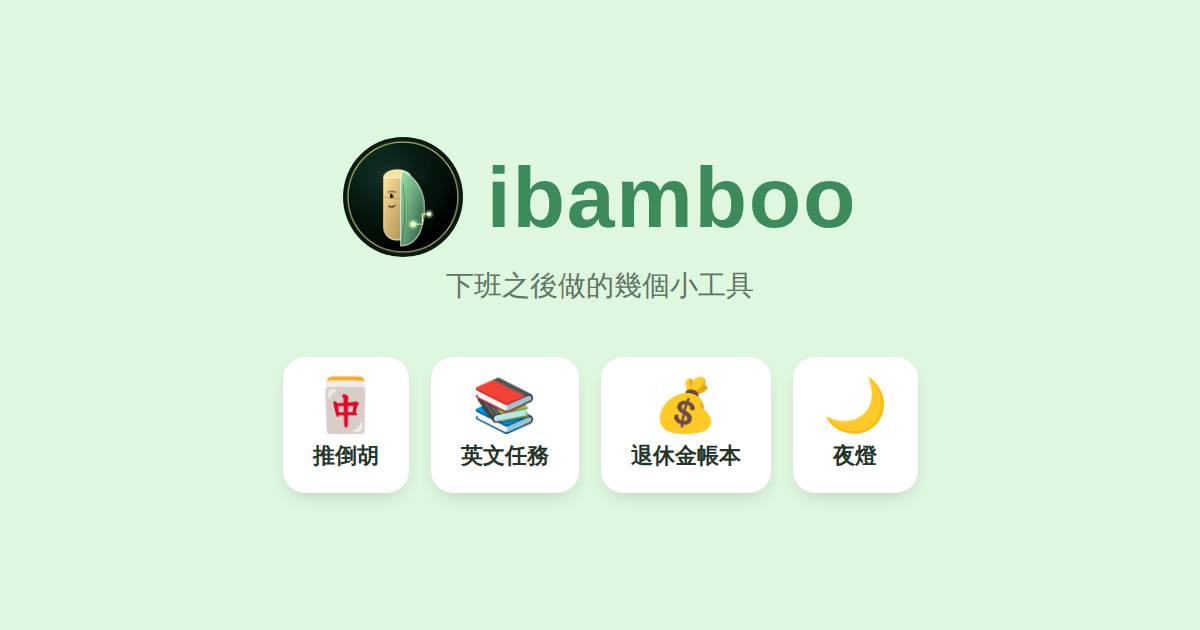
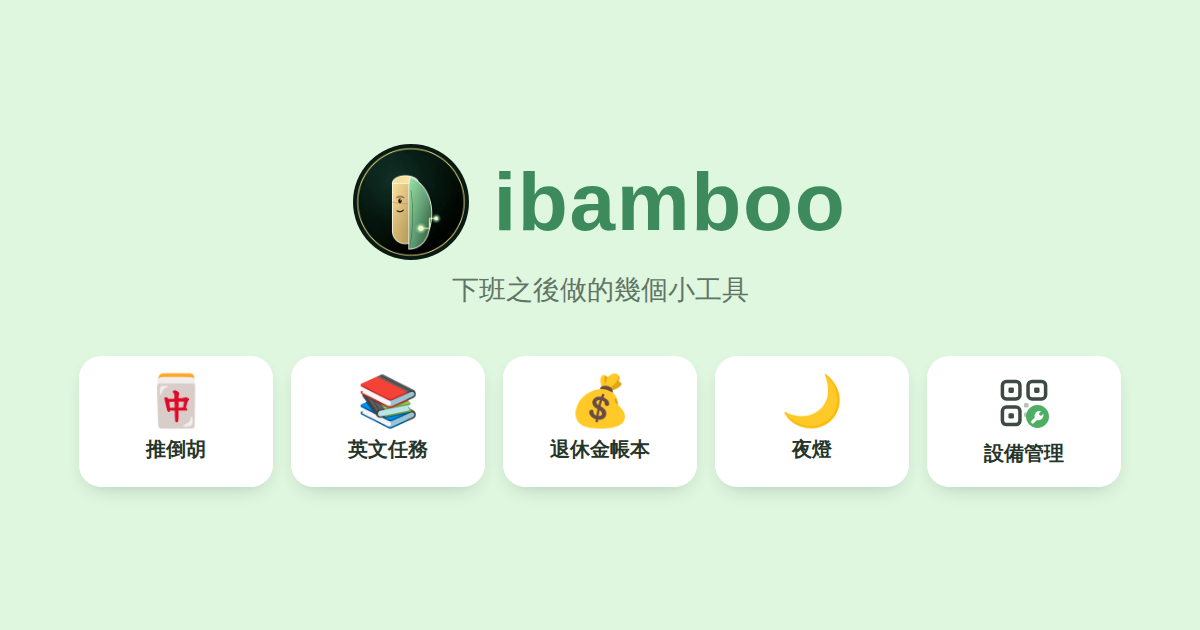
Add files via upload

Changed region(s): [[0.0617, 0.5429, 0.9558, 0.7841], [0.2775, 0.2111, 0.7092, 0.4222], [0.37, 0.4222, 0.6475, 0.4825]]

diff --git a/index.html b/index.html
@@ -4,8 +4,8 @@
 <head>
 <meta charset="utf-8">
 <meta name="viewport" content="width=device-width,initial-scale=1,viewport-fit=cover">
-<title>ibamboo｜推倒胡・英文任務・退休金帳本・夜燈</title>
-<meta name="description" content="ibamboo 做的幾個網頁小工具：推倒胡麻將、英文任務、退休金帳本、夜燈。">
+<title>ibamboo｜企業設備管理系統・推倒胡・英文任務・退休金帳本・夜燈</title>
+<meta name="description" content="ibamboo 用 AI 做的網頁工具與系統：企業設備管理系統（掃碼叫修）、推倒胡麻將、英文任務、退休金帳本、夜燈。">
 <meta name="author" content="ibamboo">
 <meta name="robots" content="index,follow,max-image-preview:large">
 <link rel="canonical" href="https://ibamboo.boll090292.workers.dev/">
@@ -17,14 +17,14 @@
 <meta property="og:site_name" content="ibamboo">
 <meta property="og:locale" content="zh_TW">
 <meta property="og:url" content="https://ibamboo.boll090292.workers.dev/">
-<meta property="og:title" content="ibamboo｜推倒胡・英文任務・退休金帳本・夜燈">
-<meta property="og:description" content="ibamboo 做的幾個網頁小工具。">
+<meta property="og:title" content="ibamboo｜企業設備管理系統・推倒胡・英文任務・退休金帳本・夜燈">
+<meta property="og:description" content="ibamboo 用 AI 做的網頁工具與系統。">
 <meta property="og:image" content="https://ibamboo.boll090292.workers.dev/og.png">
 <meta property="og:image:width" content="1200">
 <meta property="og:image:height" content="630">
 <meta name="twitter:card" content="summary_large_image">
-<meta name="twitter:title" content="ibamboo｜推倒胡・英文任務・退休金帳本・夜燈">
-<meta name="twitter:description" content="ibamboo 做的幾個網頁小工具。">
+<meta name="twitter:title" content="ibamboo｜企業設備管理系統・推倒胡・英文任務・退休金帳本・夜燈">
+<meta name="twitter:description" content="ibamboo 用 AI 做的網頁工具與系統。">
 <meta name="twitter:image" content="https://ibamboo.boll090292.workers.dev/og.png">
 
 <link rel="icon" href="icon-192.png">
@@ -86,7 +86,7 @@ h1,h2,p{margin:0}
   100%{transform:translate3d(-2vw,112vh,0) rotate(360deg)}
 }
 
-.hero,.g,.foot{position:relative;z-index:1}
+.hero,.sec,.foot{position:relative;z-index:1}
 .hero{background:var(--hero);text-align:center;padding:56px 20px 40px}
 .hero h1,.hero p,.install{animation:rise .7s cubic-bezier(.2,.9,.3,1.2) both}
 .hero p{animation-delay:.1s}
@@ -104,11 +104,18 @@ h1,h2,p{margin:0}
 .hero h1{font-size:clamp(34px,8vw,46px);font-weight:900;color:var(--green-d);letter-spacing:.02em}
 .hero p{margin-top:10px;color:var(--soft);font-size:clamp(15px,3.6vw,17px)}
 
-.g{
-  max-width:960px;margin:0 auto;
-  display:grid;grid-template-columns:repeat(auto-fit,minmax(260px,1fr));
-  gap:20px;padding:28px 20px 8px;
+.sec{max-width:960px;margin:0 auto;padding:0 20px}
+.sechd{
+  display:flex;align-items:center;gap:14px;margin:26px 0 0;
+  font-size:12.5px;font-weight:700;letter-spacing:.16em;color:var(--faint);
 }
+.sechd::after{content:"";flex:1;height:1px;background:var(--line)}
+.g{
+  display:grid;grid-template-columns:repeat(auto-fit,minmax(340px,1fr));
+  gap:20px;padding:16px 0 8px;
+}
+.g--one{grid-template-columns:1fr}
+.c--pro{background:linear-gradient(140deg,var(--hero) 0%,var(--card) 78%);border-color:rgba(88,166,107,.45)}
 /* 卡片浮動 */
 .float{animation:rise .7s cubic-bezier(.2,.9,.3,1.2) both, drift 6s ease-in-out infinite}
 .float:nth-child(1){animation-delay:.05s,.7s}
@@ -130,7 +137,10 @@ h1,h2,p{margin:0}
 .c p{transition:color .25s}
 .c h2{font-size:22px;font-weight:900;display:flex;align-items:center;gap:10px;flex-wrap:wrap}
 .c h2 .e{font-size:26px;line-height:1}
-.lock{font-size:11px;font-weight:700;padding:2px 10px;border-radius:99px;background:var(--bg);color:var(--faint);border:1px solid var(--line)}
+.lock,.mon,.pay{font-size:11px;font-weight:700;padding:2px 10px;border-radius:99px;background:var(--bg);color:var(--faint);border:1px solid var(--line);white-space:nowrap}
+.mon{color:var(--green-d);border-color:rgba(88,166,107,.35)}
+.pay{font-size:11px;font-weight:700;padding:2px 10px;border-radius:99px;white-space:nowrap;
+  background:rgba(224,143,38,.12);color:#C07A1E;border:1px solid rgba(224,143,38,.35)}
 .c p{margin-top:8px;color:var(--soft);font-size:15px}
 .b{
   position:relative;overflow:hidden;
@@ -173,7 +183,7 @@ h1,h2,p{margin:0}
 <header class="hero">
   <h1>
[1 lines of base64/hex data omitted]
-  <p>下班之後做的幾個小工具。</p>
+  <p>作品集</p>
   <button class="install" id="install" type="button">📲 安裝到手機</button>
   <p class="hint" id="hint">在 Safari 點下方的「分享」<br>再選「加入主畫面」就裝好了。</p>
 </header>
@@ -181,37 +191,61 @@ h1,h2,p{margin:0}
   <path d="M0 0h1440v18c-180 30-360 42-540 30S180 12 0 34z" fill="currentColor"/>
 </svg>
 
-<main class="g">
+<main>
 
+  <section class="sec">
+    <p class="sechd">服務</p>
+    <div class="g g--one">
+  <div class="float"><a class="c c--pro" href="https://majestic-rugelach-adc8a9.netlify.app/" rel="noopener">
+      <h2><svg class="ico" viewBox="0 0 40 40" aria-hidden="true">
+        <rect x="4" y="4" width="13" height="13" rx="3" fill="none" stroke="#3C4A41" stroke-width="2.6"/>
+        <rect x="8.5" y="8.5" width="4" height="4" rx="1" fill="#3C4A41"/>
+        <rect x="23" y="4" width="13" height="13" rx="3" fill="none" stroke="#3C4A41" stroke-width="2.6"/>
+        <rect x="27.5" y="8.5" width="4" height="4" rx="1" fill="#3C4A41"/>
+        <rect x="4" y="23" width="13" height="13" rx="3" fill="none" stroke="#3C4A41" stroke-width="2.6"/>
+        <rect x="8.5" y="27.5" width="4" height="4" rx="1" fill="#3C4A41"/>
+        <rect x="20" y="20" width="3.4" height="3.4" rx="1" fill="#B9C4BC"/>
+        <rect x="20" y="27" width="3.4" height="3.4" rx="1" fill="#B9C4BC"/>
+        <circle cx="30" cy="30" r="8.5" fill="#4CAF63"/>
+        <path d="M32.6 26.2a3.6 3.6 0 0 0-4.6 4.6l-2.4 2.4a1.2 1.2 0 0 0 1.7 1.7l2.4-2.4a3.6 3.6 0 0 0 4.6-4.6l-1.8 1.8-1.6-1.6z" fill="#fff"/>
+      </svg>企業設備管理系統 <span class="mon">2026.08</span> <span class="pay">需收費</span></h2>
+      <p>掃設備上的 QR 碼就能叫修，工單自動建立，保養紀錄不漏單。</p>
+      <span class="b">看介紹</span>
+    </a></div>
+    </div>
+  </section>
+
+  <section class="sec">
+    <p class="sechd">下班做的小工具</p>
+    <div class="g">
   <div class="float"><a class="c" href="https://ibamboo-mahjong.boll090292.workers.dev" rel="noopener">
-    <h2><svg class="ico" viewBox="0 0 40 40" aria-hidden="true"><g transform="rotate(-8 15 20)"><rect x="4" y="7" width="17" height="25" rx="4.5" fill="#FBF7EA" stroke="#DCD3BC" stroke-width="1.6"/><text x="12.5" y="24" text-anchor="middle" font-size="12.5" font-weight="900" fill="#3D8B5C" font-family="inherit">發</text></g><g transform="rotate(6 26 19)"><rect x="18" y="6" width="18" height="26" rx="4.5" fill="#FFFDF6" stroke="#DCD3BC" stroke-width="1.6"/><text x="27" y="23.5" text-anchor="middle" font-size="13" font-weight="900" fill="#D6473E" font-family="inherit">中</text></g></svg>推倒胡</h2>
-    <p>台灣十六張麻將，開房間跟家人打，或跟 AI 對手打幾圈。</p>
-    <span class="b">開始玩</span>
-  </a></div>
-
+      <h2><svg class="ico" viewBox="0 0 40 40" aria-hidden="true"><g transform="rotate(-8 15 20)"><rect x="4" y="7" width="17" height="25" rx="4.5" fill="#FBF7EA" stroke="#DCD3BC" stroke-width="1.6"/><text x="12.5" y="24" text-anchor="middle" font-size="12.5" font-weight="900" fill="#3D8B5C" font-family="inherit">發</text></g><g transform="rotate(6 26 19)"><rect x="18" y="6" width="18" height="26" rx="4.5" fill="#FFFDF6" stroke="#DCD3BC" stroke-width="1.6"/><text x="27" y="23.5" text-anchor="middle" font-size="13" font-weight="900" fill="#D6473E" font-family="inherit">中</text></g></svg>推倒胡 <span class="mon">2026.07</span></h2>
+      <p>台灣十六張麻將，開房間跟家人打，或跟 AI 對手打幾圈。</p>
+      <span class="b">開始玩</span>
+    </a></div>
   <div class="float"><a class="c" href="https://english-quest.boll090292.workers.dev" rel="noopener">
-    <h2><svg class="ico" viewBox="0 0 40 40" aria-hidden="true">
-      <path d="M4 28c5-2.5 10-2.5 16 1 6-3.5 11-3.5 16-1v4c-5-2.5-10-2.5-16 1-6-3.5-11-3.5-16-1z" fill="#3E7FB8"/>
-      <path d="M5 12c5-2.5 10-2 14 1.4v15.2c-4-3.4-9-3.9-14-1.4z" fill="#F4FAFE" stroke="#8FC3E6" stroke-width="1.3" stroke-linejoin="round"/>
-      <path d="M35 12c-5-2.5-10-2-14 1.4v15.2c4-3.4 9-3.9 14-1.4z" fill="#FFFFFF" stroke="#8FC3E6" stroke-width="1.3" stroke-linejoin="round"/>
-      <path d="M8.5 17.5c3-1 6-1 8 .4M8.5 21.5c3-1 6-1 8 .4M23.5 17.9c2-1.4 5-1.4 8-.4M23.5 21.9c2-1.4 5-1.4 8-.4" stroke="#9CCBE9" stroke-width="1.3" stroke-linecap="round" fill="none"/>
-      <path d="M30 3.5l1.5 3.2 3.5.5-2.5 2.4.6 3.4L30 11.4l-3.1 1.6.6-3.4L25 7.2l3.5-.5z" fill="#FFC155" stroke="#E8A62F" stroke-width="1"/>
-    </svg>英文任務</h2>
-    <p>闖關任務、單字小蜜蜂，一邊玩遊戲一邊背單字。</p>
-    <span class="b">開始學</span>
-  </a></div>
-
+      <h2><svg class="ico" viewBox="0 0 40 40" aria-hidden="true">
+        <path d="M4 28c5-2.5 10-2.5 16 1 6-3.5 11-3.5 16-1v4c-5-2.5-10-2.5-16 1-6-3.5-11-3.5-16-1z" fill="#3E7FB8"/>
+        <path d="M5 12c5-2.5 10-2 14 1.4v15.2c-4-3.4-9-3.9-14-1.4z" fill="#F4FAFE" stroke="#8FC3E6" stroke-width="1.3" stroke-linejoin="round"/>
+        <path d="M35 12c-5-2.5-10-2-14 1.4v15.2c4-3.4 9-3.9 14-1.4z" fill="#FFFFFF" stroke="#8FC3E6" stroke-width="1.3" stroke-linejoin="round"/>
+        <path d="M8.5 17.5c3-1 6-1 8 .4M8.5 21.5c3-1 6-1 8 .4M23.5 17.9c2-1.4 5-1.4 8-.4M23.5 21.9c2-1.4 5-1.4 8-.4" stroke="#9CCBE9" stroke-width="1.3" stroke-linecap="round" fill="none"/>
+        <path d="M30 3.5l1.5 3.2 3.5.5-2.5 2.4.6 3.4L30 11.4l-3.1 1.6.6-3.4L25 7.2l3.5-.5z" fill="#FFC155" stroke="#E8A62F" stroke-width="1"/>
+      </svg>英文任務 <span class="mon">2026.07</span></h2>
+      <p>闖關任務、單字小蜜蜂，一邊玩遊戲一邊背單字。</p>
+      <span class="b">開始學</span>
+    </a></div>
   <div class="float"><a class="c" href="https://sparkling-pine-a903.boll090292.workers.dev/" rel="noopener">
-    <h2><svg class="ico" viewBox="0 0 40 40" aria-hidden="true"><path d="M8 18h4l2.6-4 2 2.6z" fill="#F0A93E"/><rect x="11" y="27" width="4.5" height="6" rx="2.2" fill="#E89B2E"/><rect x="24" y="27" width="4.5" height="6" rx="2.2" fill="#E89B2E"/><ellipse cx="20" cy="22" rx="13" ry="10" fill="#FFC155"/><ellipse cx="31" cy="23" rx="4.4" ry="3.8" fill="#F0A93E"/><circle cx="32.6" cy="21.8" r="1.1" fill="#8A5A12"/><circle cx="29.6" cy="21.8" r="1.1" fill="#8A5A12"/><circle cx="25" cy="19.6" r="1.5" fill="#4A3210"/><rect x="15" y="14.8" width="9" height="2.2" rx="1.1" fill="#E08F26"/><circle cx="21" cy="8.6" r="4.4" fill="#FFE08A"/><text x="21" y="11.4" text-anchor="middle" font-size="6" font-weight="900" fill="#B8801E" font-family="inherit">$</text></svg>退休金帳本 <span class="lock">需密碼</span></h2>
-    <p>勞保加勞退，算算看退休後每個月能領多少。</p>
-    <span class="b">立即試算</span>
-  </a></div>
-
+      <h2><svg class="ico" viewBox="0 0 40 40" aria-hidden="true"><path d="M8 18h4l2.6-4 2 2.6z" fill="#F0A93E"/><rect x="11" y="27" width="4.5" height="6" rx="2.2" fill="#E89B2E"/><rect x="24" y="27" width="4.5" height="6" rx="2.2" fill="#E89B2E"/><ellipse cx="20" cy="22" rx="13" ry="10" fill="#FFC155"/><ellipse cx="31" cy="23" rx="4.4" ry="3.8" fill="#F0A93E"/><circle cx="32.6" cy="21.8" r="1.1" fill="#8A5A12"/><circle cx="29.6" cy="21.8" r="1.1" fill="#8A5A12"/><circle cx="25" cy="19.6" r="1.5" fill="#4A3210"/><rect x="15" y="14.8" width="9" height="2.2" rx="1.1" fill="#E08F26"/><circle cx="21" cy="8.6" r="4.4" fill="#FFE08A"/><text x="21" y="11.4" text-anchor="middle" font-size="6" font-weight="900" fill="#B8801E" font-family="inherit">$</text></svg>退休金帳本 <span class="mon">2026.07</span> <span class="lock">需密碼</span></h2>
+      <p>勞保加勞退，算算看退休後每個月能領多少。</p>
+      <span class="b">立即試算</span>
+    </a></div>
   <div class="float"><a class="c" href="https://sleep.boll090292.workers.dev" rel="noopener">
-    <h2><svg class="ico" viewBox="0 0 40 40" aria-hidden="true"><circle cx="20" cy="20" r="15" fill="#8E7FD1" opacity=".14"/><path d="M24 7a14 14 0 1 0 8 24.5A15.8 15.8 0 0 1 24 7z" fill="#F3D57A"/><circle cx="19" cy="20.6" r="1.3" fill="#B99A2E"/><circle cx="25" cy="19.4" r="1.3" fill="#B99A2E"/><path d="M19.8 23.6q2.3 1.9 4.6-.4" stroke="#B99A2E" stroke-width="1.3" fill="none" stroke-linecap="round"/><path d="M31.5 8.5l1.1 2.7 2.7 1.1-2.7 1.1-1.1 2.7-1.1-2.7-2.7-1.1 2.7-1.1z" fill="#C8B6F2"/><path d="M9 25l.8 1.9L11.7 28l-1.9.8L9 30.7l-.8-1.9L6.3 28l1.9-.8z" fill="#C8B6F2" opacity=".8"/></svg>夜燈 <span class="lock">需密碼</span></h2>
-    <p>環境音、睡前故事，放著陪你睡著。</p>
-    <span class="b">體驗</span>
-  </a></div>
+      <h2><svg class="ico" viewBox="0 0 40 40" aria-hidden="true"><circle cx="20" cy="20" r="15" fill="#8E7FD1" opacity=".14"/><path d="M24 7a14 14 0 1 0 8 24.5A15.8 15.8 0 0 1 24 7z" fill="#F3D57A"/><circle cx="19" cy="20.6" r="1.3" fill="#B99A2E"/><circle cx="25" cy="19.4" r="1.3" fill="#B99A2E"/><path d="M19.8 23.6q2.3 1.9 4.6-.4" stroke="#B99A2E" stroke-width="1.3" fill="none" stroke-linecap="round"/><path d="M31.5 8.5l1.1 2.7 2.7 1.1-2.7 1.1-1.1 2.7-1.1-2.7-2.7-1.1 2.7-1.1z" fill="#C8B6F2"/><path d="M9 25l.8 1.9L11.7 28l-1.9.8L9 30.7l-.8-1.9L6.3 28l1.9-.8z" fill="#C8B6F2" opacity=".8"/></svg>夜燈 <span class="mon">2026.08</span> <span class="lock">需密碼</span></h2>
+      <p>環境音、睡前故事，放著陪你睡著。</p>
+      <span class="b">體驗</span>
+    </a></div>
+    </div>
+  </section>
 
 </main>
 
